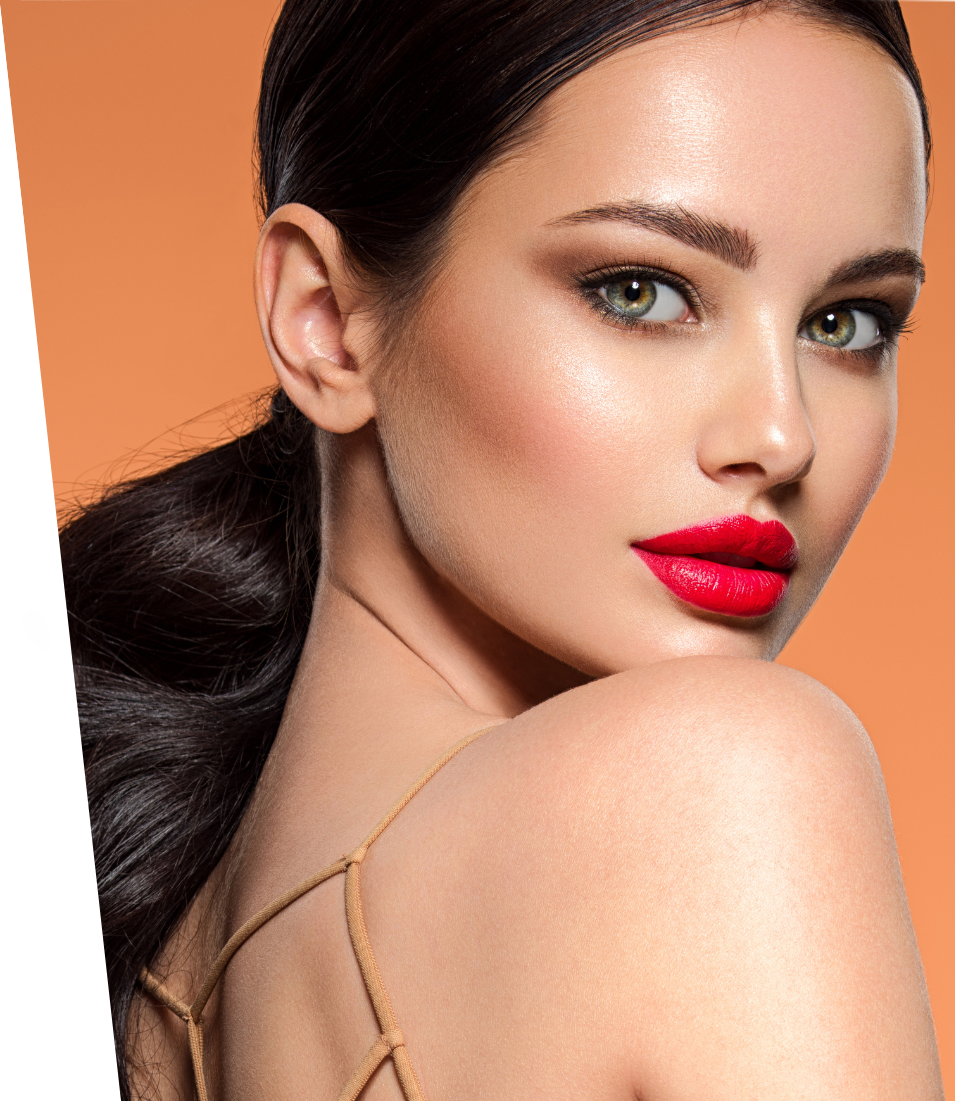
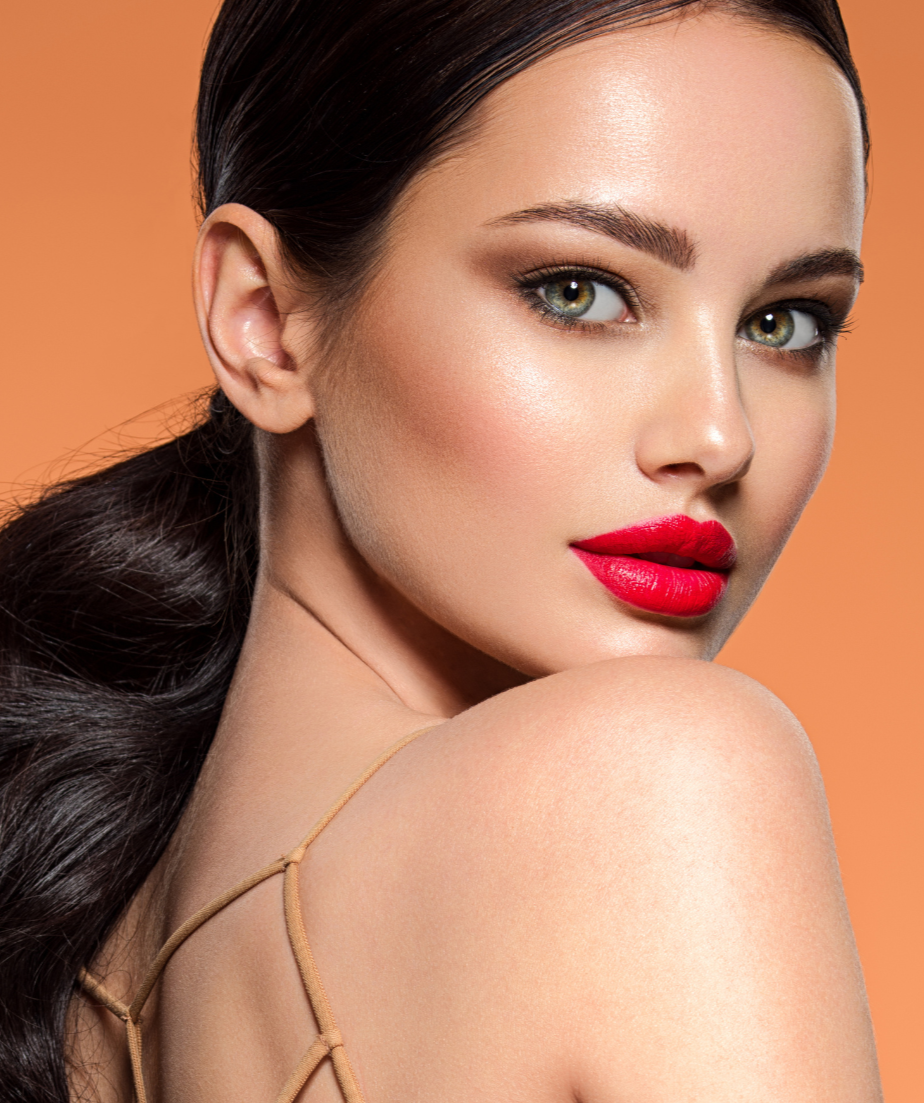
fixes for responsiveness

diff --git a/index.html b/index.html
@@ -3,7 +3,7 @@
 	<head>
 		<meta charset="utf-8">
 		<meta name="viewport" content="width=device-width, initial-scale=1.0, maximum-scale=1.0, user-scalable=no">
-		<base href="/CryptoBeauties/">
+		<!-- <base href="/CryptoBeauties/"> -->
 		<title>Crypto Beauties</title>
 
 		<link rel="stylesheet" href="https://cdnjs.cloudflare.com/ajax/libs/animate.css/4.1.1/animate.min.css"/>
@@ -79,11 +79,11 @@
 			</div>
 		</div>
 
-		<div id="what-it-takes" class="window col left">
+		<div id="what-it-takes" class="center">
 			<div class="what-info center col">
 				<h1 class="head">DO YOU HAVE WHAT IT TAKES</h1>
 				<p>Dare to be the next Crypto Beauty</p>
-				<a class="link-button" href="https://forms.gle/R6t7yMMCWvDvYqQk6">APPLY NOW</a>
+				<a target="_blank" class="link-button" href="https://forms.gle/R6t7yMMCWvDvYqQk6">APPLY NOW</a>
 			</div>
 			<img src="images/bg-3.png">
 		</div>
@@ -97,7 +97,7 @@
 			<div class="upper col">
 				<h1 class="head">SO WHAT ARE YOU WAITING FOR?</h1>
 				<h3>Sign up for the next season now!</h3>
-				<a class="link-button" href="https://forms.gle/R6t7yMMCWvDvYqQk6">APPLY NOW</a>
+				<a target="_blank" class="link-button" href="https://forms.gle/R6t7yMMCWvDvYqQk6">APPLY NOW</a>
 			</div>
 			<div class="footer">
 				<div class="footer-left">
@@ -110,12 +110,12 @@
 					</div>
 				</div>
 				<div class="footer-right">
-					<a href="https://www.facebook.com/CryptoBeauties.tv"><ion-icon name="logo-facebook"></ion-icon></a>
-					<a href="https://www.instagram.com/cryptobeautiestv?igsh=NmZ6cjRvbWxsYWdo"><ion-icon name="logo-instagram"></ion-icon></a>
-					<a href="https://www.tiktok.com/@cryptobeauties"><ion-icon name="logo-tiktok"></ion-icon></a>
-					<a href="https://x.com/CryptoBeautyTV"><ion-icon name="logo-twitter"></ion-icon></a>
-					<a href="https://www.youtube.com/@CryptoBeauties"><ion-icon name="logo-youtube"></ion-icon></a>
-					<a href="https://t.me/+92qd4f45sMM2YTMy"><svg fill="#000000" xmlns="http://www.w3.org/2000/svg" xmlns:xlink="http://www.w3.org/1999/xlink" version="1.1" x="0px" y="0px" viewBox="0 0 24 24" style="enable-background:new 0 0 24 24;" xml:space="preserve" width="512" height="512">
+					<a target="_blank" href="https://www.facebook.com/CryptoBeauties.tv"><ion-icon name="logo-facebook"></ion-icon></a>
+					<a target="_blank" href="https://www.instagram.com/cryptobeautiestv?igsh=NmZ6cjRvbWxsYWdo"><ion-icon name="logo-instagram"></ion-icon></a>
+					<a target="_blank" href="https://www.tiktok.com/@cryptobeauties"><ion-icon name="logo-tiktok"></ion-icon></a>
+					<a target="_blank" href="https://x.com/CryptoBeautyTV"><ion-icon name="logo-twitter"></ion-icon></a>
+					<a target="_blank" href="https://www.youtube.com/@CryptoBeauties"><ion-icon name="logo-youtube"></ion-icon></a>
+					<a target="_blank" href="https://t.me/+92qd4f45sMM2YTMy"><svg fill="#000000" xmlns="http://www.w3.org/2000/svg" xmlns:xlink="http://www.w3.org/1999/xlink" version="1.1" x="0px" y="0px" viewBox="0 0 24 24" style="enable-background:new 0 0 24 24;" xml:space="preserve" width="512" height="512">
 						<g id="Artboard">
 							<path style="fill-rule:evenodd;clip-rule:evenodd;" d="M12,0C5.373,0,0,5.373,0,12s5.373,12,12,12s12-5.373,12-12S18.627,0,12,0z    M17.562,8.161c-0.18,1.897-0.962,6.502-1.359,8.627c-0.168,0.9-0.5,1.201-0.82,1.23c-0.697,0.064-1.226-0.461-1.901-0.903   c-1.056-0.692-1.653-1.123-2.678-1.799c-1.185-0.781-0.417-1.21,0.258-1.911c0.177-0.184,3.247-2.977,3.307-3.23   c0.007-0.032,0.015-0.15-0.056-0.212s-0.174-0.041-0.248-0.024c-0.106,0.024-1.793,1.139-5.062,3.345   c-0.479,0.329-0.913,0.489-1.302,0.481c-0.428-0.009-1.252-0.242-1.865-0.442c-0.751-0.244-1.349-0.374-1.297-0.788   c0.027-0.216,0.324-0.437,0.892-0.663c3.498-1.524,5.831-2.529,6.998-3.015c3.333-1.386,4.025-1.627,4.477-1.635   C17.472,7.214,17.608,7.681,17.562,8.161z"/>
 						</g>

diff --git a/styles/index.css b/styles/index.css
@@ -41,6 +41,7 @@
 
 #ultimate-show h1 {
 	max-width: 75%;
+	line-height: 100%;
 }
 
 #ultimate-show p {
@@ -130,17 +131,21 @@
 	}
 	
 	@media screen and (max-width: 600px) {
-		font-size: 16px;
+		font-size: 13px;
 	}
 }
 
 #what-it-takes {
-	overflow-y: hidden;
+	width: 100%;
+	height: 100vh;
+	justify-content: space-between;
+	overflow: hidden;
 	background-color: var(--primary);
 	color: white;
 
 	@media screen and (max-width: 1400px) {
-		justify-content: space-between;
+		flex-direction: column;
+		gap: 2rem;
 	}
 }
 
@@ -160,7 +165,9 @@
 }
 
 #what-it-takes > * {
-	margin-left: 3rem;
+	@media screen and (min-width: 1400px) {
+		margin-left: 3rem;
+	}
 }
 
 #what-it-takes p {
@@ -168,19 +175,13 @@
 }
 
 #what-it-takes img {
-	position: absolute;
-	right: 0;
 	height: 100vh;
 	width: auto;
 
 	@media screen and (max-width: 1400px) {
-		position: relative;
-		height: 60%;
-		margin: 0 auto;
-	}
-
-	@media screen and (max-width: 600px) {
-		display: none;
+		width: 100%;
+		height: auto;
+		margin: 0;
 	}
 }
 
@@ -196,6 +197,7 @@
 	@media screen and (max-width: 1400px) {
 		padding: 2rem;
 		align-items: center;
+		gap: 6rem;
 	}
 
 	@media screen and (max-width: 600px) {
@@ -216,6 +218,7 @@
 
 	@media screen and (max-width: 600px) {
 		font-size: 40px;
+		text-align: center;
 		width: 100%;
 	}
 }
@@ -232,6 +235,7 @@
 	}
 	
 	@media screen and (max-width: 600px) {
+		text-align-last: center;
 		font-size: 20px;
 	}
 }
@@ -285,12 +289,9 @@
 }
 
 .upper a {
-	padding: calc(1.5rem - 8px) calc(2rem - 8px);
+	padding: 1.5rem 2rem;
 	width: fit-content;
 	background-color: var(--primary);
-	border-width: 8px;
-	border-color: white;
-	border-style: solid;
 }
 
 #footer-logo {
